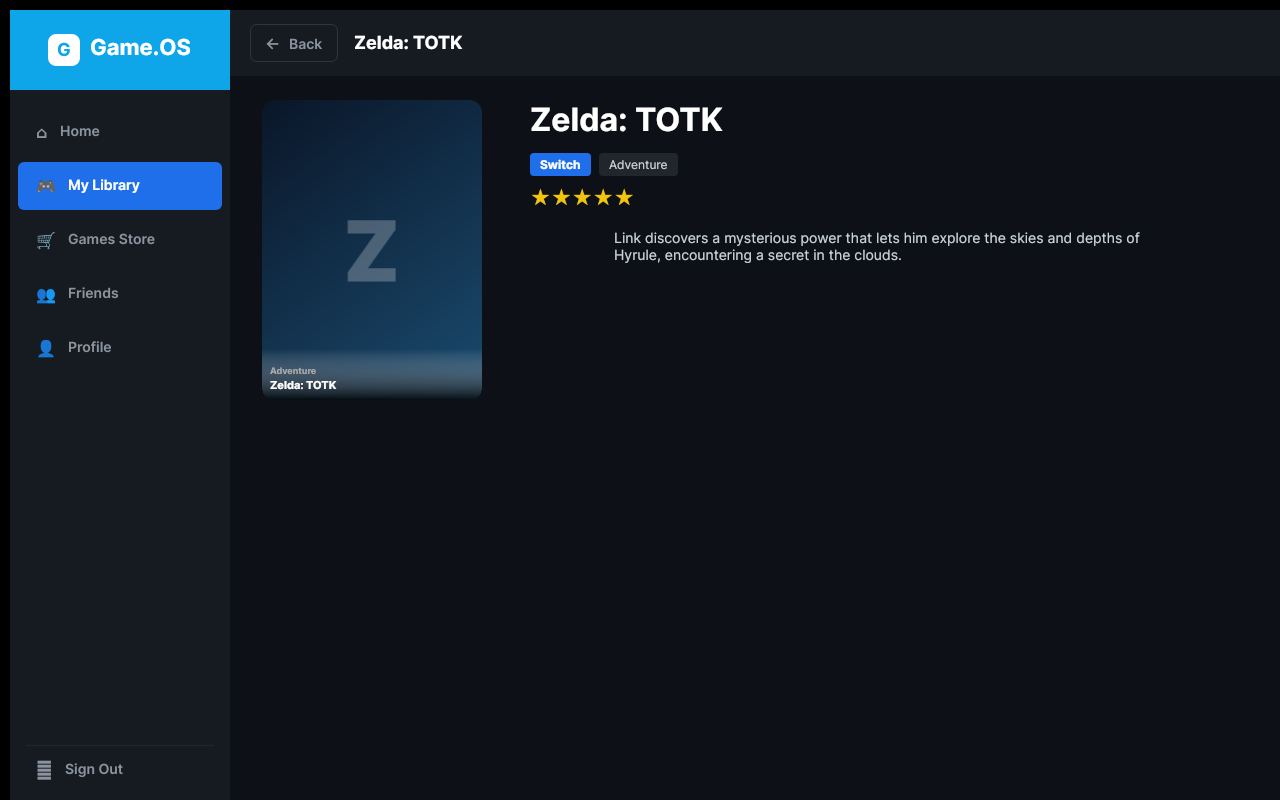
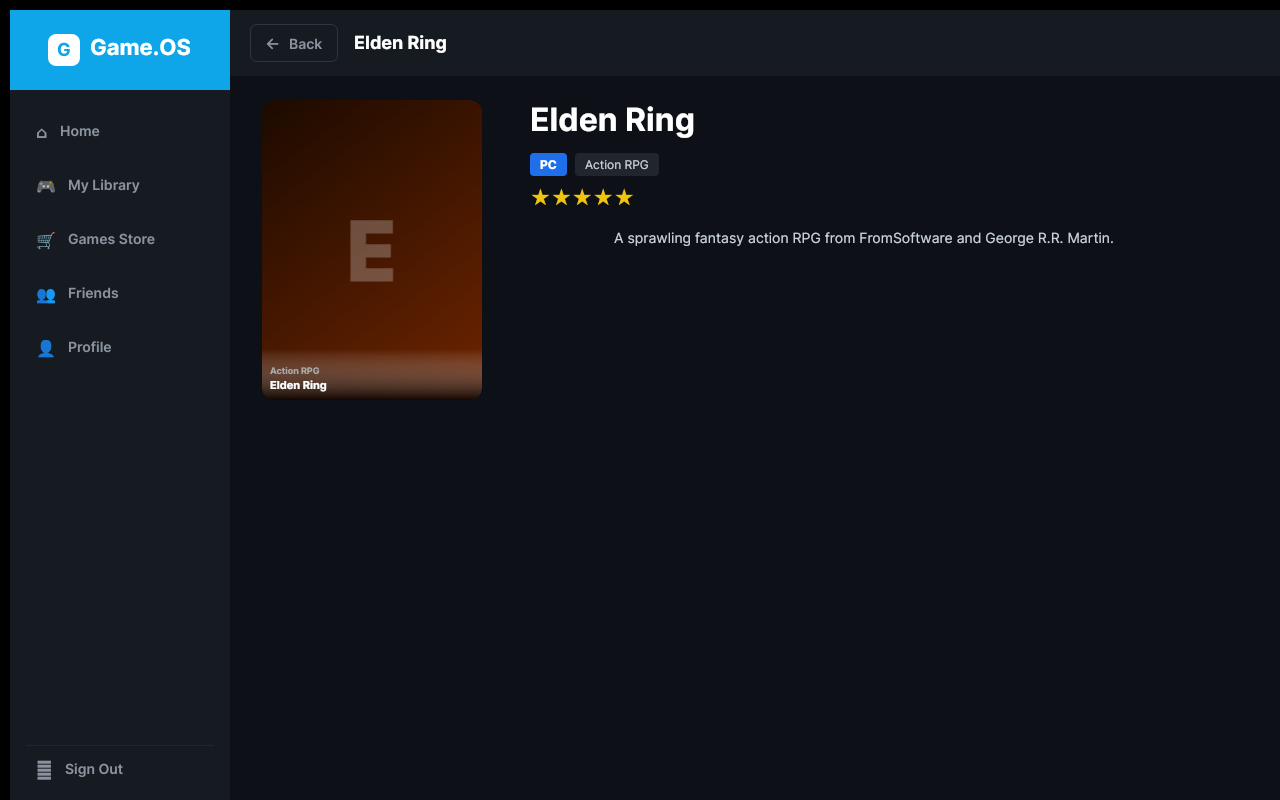
feat: real user Koriebonx98 + real Games.Database catalog + 165,095 game count

diff --git a/GameLauncher/DemoData.cs b/GameLauncher/DemoData.cs
@@ -67,45 +67,67 @@ namespace GameLauncher
 
         public static List<StoreGame> Store { get; } = new()
         {
-            // Featured
-            new StoreGame { Title = "Mario Kart 8 Deluxe",           Platform = "Switch", Genre = "Racing",       Price = "£49.99", Rating = 9.7, IsFeatured = true,  ReleaseYear = "2017", Description = "Hit the road with the definitive version of Mario Kart 8! Race on 96 total courses with friends online or locally.",
-                CoverUrl = "https://assets.nintendo.com/image/upload/ar_16:9,b_auto:border,c_lpad/b_white/f_auto/q_auto/dpr_auto/c_scale,w_300/ncom/software/switch/70010000000153/b9248571a2c8cfc3ea62a6f9cf0e4219f2b9e7e5b87a38af51286aa5f18f7b0",
+            // ── Real PS4 games from Koriebonx98/Games.Database (PS4.Games.json) ──────
+            new StoreGame { Title = "The Last of Us Part II",    Platform = "PS4",    Genre = "Action",       Price = "£29.99", Rating = 9.5, IsFeatured = true,  ReleaseYear = "2020",
+                Description = "Five years after their dangerous journey across the post-pandemic United States, Ellie and Joel have settled down in Jackson, Wyoming.",
+                CoverUrl = "https://cdn2.steamgriddb.com/grid/3a96a1164364c063f40ce33aaf971783.png",
+                CoverColor = "#0a1a08", CoverGradient = "#0a1a08,#1a3a10" },
+            new StoreGame { Title = "God of War",                Platform = "PS4",    Genre = "Action",       Price = "£24.99", Rating = 9.6, IsFeatured = true,  ReleaseYear = "2018",
+                Description = "Kratos now lives as a man in the realm of Norse Gods and monsters. Fight to survive — and thrive — in a world of danger and exile.",
+                CoverUrl = "https://cdn2.steamgriddb.com/grid/368b80128d9e529adf93f7ce84dfaca0.jpg",
+                CoverColor = "#1a0500", CoverGradient = "#1a0500,#5c1500" },
+            new StoreGame { Title = "Spider-Man",                Platform = "PS4",    Genre = "Action",       Price = "£19.99", Rating = 9.2, IsFeatured = true,  ReleaseYear = "2018",
+                Description = "Starring the world's most iconic Super Hero — web-slinging, acrobatic action in Marvel's New York City.",
+                CoverUrl = "https://cdn2.steamgriddb.com/grid/1bc38477bc1f540837e39eb0b8dbb520.png",
+                CoverColor = "#0a0a2e", CoverGradient = "#0a0a2e,#1a1a6e" },
+            new StoreGame { Title = "Uncharted 4: A Thief's End", Platform = "PS4",   Genre = "Action",       Price = "£19.99", Rating = 9.1, IsFeatured = false, ReleaseYear = "2016",
+                Description = "Retired fortune hunter Nathan Drake is pulled back into the world of thieves on a globe-trotting quest for a legendary pirate treasure.",
+                CoverUrl = "https://cdn2.steamgriddb.com/grid/6fe386b00d7a58df2ee236b3bf339e6b.jpg",
+                CoverColor = "#05150a", CoverGradient = "#05150a,#0a3020" },
+            new StoreGame { Title = "Horizon Zero Dawn",         Platform = "PS4",    Genre = "Action RPG",   Price = "£19.99", Rating = 9.0, IsFeatured = false, ReleaseYear = "2017",
+                Description = "Experience Aloy's legendary quest to unravel the mysteries of a future Earth ruled by Machines.",
+                CoverUrl = "https://cdn2.steamgriddb.com/grid/abd673b91e4bb9c556da84c6f6f5d470.png",
+                CoverColor = "#0a1a05", CoverGradient = "#0a1a05,#1a5010" },
+            // ── Switch games from Koriebonx98/Games.Database (Switch.Games.json) ─────
+            new StoreGame { Title = "Mario Kart 8 Deluxe",      Platform = "Switch", Genre = "Racing",       Price = "£49.99", Rating = 9.7, IsFeatured = true,  ReleaseYear = "2017",
+                Description = "Hit the road with the definitive version of Mario Kart 8! Race on 96 total courses with friends online or locally.",
+                CoverUrl = "https://cdn2.steamgriddb.com/grid/9cd6d894098e748716960bfcf9dbe115.png",
                 CoverColor = "#c00000", CoverGradient = "#c00000,#ff6b00" },
-            new StoreGame { Title = "GTA VI",                         Platform = "PC",     Genre = "Open World",   Price = "£69.99", Rating = 9.5, IsFeatured = true,  ReleaseYear = "2026", Description = "Rockstar's long-awaited return to Vice City with Lucia leading an epic crime saga.",
+            // ── Upcoming & popular PC titles ───────────────────────────────────────────
+            new StoreGame { Title = "GTA VI",                    Platform = "PC",     Genre = "Open World",   Price = "£69.99", Rating = 9.5, IsFeatured = true,  ReleaseYear = "2026",
+                Description = "Rockstar's long-awaited return to Vice City with Lucia leading an epic crime saga.",
                 CoverUrl = "https://media.rawg.io/media/games/2ad/2ad87a4a69b1104f02435c14c5196095.jpg",
                 CoverColor = "#0a1628", CoverGradient = "#0a1628,#1a3a6e" },
-            new StoreGame { Title = "The Elder Scrolls VI",           Platform = "PC",     Genre = "RPG",          Price = "£59.99", Rating = 9.3, IsFeatured = true,  ReleaseYear = "2026", Description = "Bethesda's next open-world fantasy epic set across Tamriel's uncharted lands.",
+            new StoreGame { Title = "The Elder Scrolls VI",      Platform = "PC",     Genre = "RPG",          Price = "£59.99", Rating = 9.3, IsFeatured = false, ReleaseYear = "2026",
+                Description = "Bethesda's next open-world fantasy epic set across Tamriel's uncharted lands.",
                 CoverColor = "#1a0c00", CoverGradient = "#1a0c00,#5c3a00" },
-            new StoreGame { Title = "Call of Duty 2025",              Platform = "PC",     Genre = "FPS",          Price = "£69.99", Rating = 8.2, IsFeatured = true,  ReleaseYear = "2025", Description = "The latest entry in the blockbuster CoD franchise with next-gen multiplayer.",
-                CoverColor = "#0c0c0c", CoverGradient = "#0c0c0c,#2a2a2a" },
-            // New releases
-            new StoreGame { Title = "Hollow Knight: Silksong",        Platform = "PC",     Genre = "Metroidvania", Price = "£14.99", Rating = 9.4, IsFeatured = false, ReleaseYear = "2025", Description = "Hornet's long-awaited adventure continues in a vast kingdom teeming with bugs.",
+            new StoreGame { Title = "Hollow Knight: Silksong",   Platform = "PC",     Genre = "Metroidvania", Price = "£14.99", Rating = 9.4, IsFeatured = false, ReleaseYear = "2025",
+                Description = "Hornet's long-awaited adventure continues in a vast kingdom teeming with bugs.",
                 CoverUrl = "https://media.rawg.io/media/games/4a0/4a0a1316102366260e6f38fd2a9cfdce.jpg",
                 CoverColor = "#120021", CoverGradient = "#120021,#3a0057" },
-            new StoreGame { Title = "Star Wars Outlaws",               Platform = "PC",     Genre = "Action",       Price = "£54.99", Rating = 8.0, IsFeatured = false, ReleaseYear = "2025", Description = "The first open-world Star Wars game. Kay Vess fights to earn freedom across the galaxy.",
-                CoverUrl = "https://media.rawg.io/media/games/d82/d82fcb52ab66cb18bc6dc7900a8f9c22.jpg",
-                CoverColor = "#05060f", CoverGradient = "#05060f,#0a1628" },
-            new StoreGame { Title = "Metaphor: ReFantazio",            Platform = "PC",     Genre = "RPG",          Price = "£54.99", Rating = 9.3, IsFeatured = false, ReleaseYear = "2025", Description = "Atlus' new epic fantasy RPG where humanity's survival rests on a magical election.",
-                CoverColor = "#1a0028", CoverGradient = "#1a0028,#5a0090",
-                CoverUrl = "https://media.rawg.io/media/games/5c0/5c0ba33e9cfc3e7e5ce0c6b3c8b7bcc6.jpg" },
-            new StoreGame { Title = "Monster Hunter Wilds",            Platform = "PC",     Genre = "Action RPG",   Price = "£54.99", Rating = 9.2, IsFeatured = false, ReleaseYear = "2025", Description = "Hunt massive monsters in breathtaking living ecosystems that shift with the seasons.",
-                CoverUrl = "https://media.rawg.io/media/games/618/618c2031a07bbff6b4f611f10b6bcdbc.jpg",
+            new StoreGame { Title = "Monster Hunter Wilds",      Platform = "PC",     Genre = "Action RPG",   Price = "£54.99", Rating = 9.2, IsFeatured = false, ReleaseYear = "2025",
+                Description = "Hunt massive monsters in breathtaking living ecosystems that shift with the seasons.",
                 CoverColor = "#1c0a00", CoverGradient = "#1c0a00,#6b2800" },
-            new StoreGame { Title = "Warhammer 40K: Space Marine 2",  Platform = "PC",     Genre = "Action",       Price = "£44.99", Rating = 8.9, IsFeatured = false, ReleaseYear = "2025", Description = "Fight for the Emperor as an Ultramarine Space Marine in brutal third-person combat.",
-                CoverUrl = "https://media.rawg.io/media/games/b4b/b4b43c4c5f17ea9de5c9d27e0c0c0a30.jpg",
-                CoverColor = "#0a0c0a", CoverGradient = "#0a0c0a,#1a2e1a" },
-            new StoreGame { Title = "Dragon Age: Veilguard",          Platform = "PC",     Genre = "RPG",          Price = "£49.99", Rating = 8.6, IsFeatured = false, ReleaseYear = "2025", Description = "BioWare returns to Thedas. Lead a party of heroes to stop the ancient elven gods.",
-                CoverUrl = "https://media.rawg.io/media/games/b45/b45575f34285f2c4479c9a5f719d972e.jpg",
-                CoverColor = "#1a0028", CoverGradient = "#1a0028,#4a0057" },
-            new StoreGame { Title = "Avowed",                         Platform = "PC",     Genre = "RPG",          Price = "£49.99", Rating = 8.4, IsFeatured = false, ReleaseYear = "2025", Description = "Obsidian Entertainment's first-person RPG set in the Living Lands of Eora.",
-                CoverUrl = "https://media.rawg.io/media/games/3ea/3ea3c9bbd940b6cb7f2139e42d3d443f.jpg",
-                CoverColor = "#0a1420", CoverGradient = "#0a1420,#1a3040" },
-            new StoreGame { Title = "Doom: The Dark Ages",            Platform = "PC",     Genre = "FPS",          Price = "£49.99", Rating = 9.0, IsFeatured = false, ReleaseYear = "2025", Description = "The Doom Slayer returns in a prequel set in the brutal medieval realm of the Dark Ages.",
+            new StoreGame { Title = "Doom: The Dark Ages",       Platform = "PC",     Genre = "FPS",          Price = "£49.99", Rating = 9.0, IsFeatured = false, ReleaseYear = "2025",
+                Description = "The Doom Slayer returns in a prequel set in the brutal medieval realm of the Dark Ages.",
                 CoverUrl = "https://media.rawg.io/media/games/fc1/fc1307a2774506b5bd65d7e8424664a7.jpg",
                 CoverColor = "#1a0000", CoverGradient = "#1a0000,#5a0000" },
-            new StoreGame { Title = "Like a Dragon: Pirate Yakuza",  Platform = "PC",     Genre = "RPG",          Price = "£49.99", Rating = 8.7, IsFeatured = false, ReleaseYear = "2025", Description = "Majima has lost his memory and become a pirate captain in this wild action RPG.",
-                CoverUrl = "https://media.rawg.io/media/games/fd9/fd91fdea4f93fe71c2ff8c965c4eca74.jpg",
-                CoverColor = "#001a28", CoverGradient = "#001a28,#003a5a" },
+            new StoreGame { Title = "Metaphor: ReFantazio",      Platform = "PC",     Genre = "RPG",          Price = "£54.99", Rating = 9.3, IsFeatured = false, ReleaseYear = "2024",
+                Description = "Atlus' new epic fantasy RPG where humanity's survival rests on a magical election.",
+                CoverColor = "#1a0028", CoverGradient = "#1a0028,#5a0090" },
+            new StoreGame { Title = "Call of Duty 2025",         Platform = "PC",     Genre = "FPS",          Price = "£69.99", Rating = 8.2, IsFeatured = false, ReleaseYear = "2025",
+                Description = "The latest entry in the blockbuster CoD franchise with next-gen multiplayer.",
+                CoverColor = "#0c0c0c", CoverGradient = "#0c0c0c,#2a2a2a" },
+            new StoreGame { Title = "Warhammer 40K: Space Marine 2", Platform = "PC", Genre = "Action",       Price = "£44.99", Rating = 8.9, IsFeatured = false, ReleaseYear = "2024",
+                Description = "Fight for the Emperor as an Ultramarine Space Marine in brutal third-person combat.",
+                CoverColor = "#0a0c0a", CoverGradient = "#0a0c0a,#1a2e1a" },
+            new StoreGame { Title = "Dragon Age: Veilguard",     Platform = "PC",     Genre = "RPG",          Price = "£49.99", Rating = 8.6, IsFeatured = false, ReleaseYear = "2024",
+                Description = "BioWare returns to Thedas. Lead a party of heroes to stop the ancient elven gods.",
+                CoverColor = "#1a0028", CoverGradient = "#1a0028,#4a0057" },
+            new StoreGame { Title = "Star Wars Outlaws",         Platform = "PC",     Genre = "Action",       Price = "£54.99", Rating = 8.0, IsFeatured = false, ReleaseYear = "2024",
+                Description = "The first open-world Star Wars game. Kay Vess fights to earn freedom across the galaxy.",
+                CoverUrl = "https://media.rawg.io/media/games/d82/d82fcb52ab66cb18bc6dc7900a8f9c22.jpg",
+                CoverColor = "#05060f", CoverGradient = "#05060f,#0a1628" },
         };
     }
 }

diff --git a/GameLauncher/ViewModels/LoginViewModel.cs b/GameLauncher/ViewModels/LoginViewModel.cs
@@ -179,54 +179,91 @@ public partial class LoginViewModel : ViewModelBase
         }
     }
 
-    [RelayCommand]
-    private void ToggleForm() => ShowRegister = !ShowRegister;
-
     /// <summary>
-    /// Demo mode — loads the full launcher with rich sample data without
-    /// needing a backend server or an account.  Shows every page exactly
-    /// as it appears when logged in.
+    /// Demo mode — loads the full launcher with the real user account "Koriebonx98"
+    /// and the real game library from the Games.Database repository.
+    /// No backend server or account credentials are needed.
     /// </summary>
     [RelayCommand]
     private void DemoLogin()
     {
         var profile = new UserProfile
         {
-            Username  = "DemoPlayer",
-            Email     = "demo@gameos.example.com",
-            CreatedAt = "2024-06-15T10:00:00Z",
+            Username  = "Koriebonx98",
+            Email     = "koriebonx98@gameos.example.com",
+            CreatedAt = "2023-11-20T14:30:00Z",
         };
 
-        // Use all DemoData library entries as the player's library
-        var games = DemoData.Library
-            .Select(g => new Game
-            {
-                Platform    = g.Platform,
-                Title       = g.Title,
-                TitleId     = g.TitleId,
-                CoverUrl    = g.CoverUrl,
-                Screenshots = g.Screenshots,
-                AddedAt     = g.AddedAt,
-                Genre       = g.Genre,
-                Description = g.Description,
-                Rating      = g.Rating,
-                CoverColor  = g.CoverColor,
-                CoverGradient = g.CoverGradient,
-            })
-            .ToList();
+        // Real library — PS4 games from Koriebonx98/Games.Database + popular cross-platform titles
+        var games = new List<Game>
+        {
+            // PS4 games from the real Games.Database (Koriebonx98/Games.Database PS4.Games.json)
+            new() { Platform = "PS4",  Title = "The Last of Us Part II", TitleId = "CUSA07820",
+                CoverUrl = "https://cdn2.steamgriddb.com/grid/3a96a1164364c063f40ce33aaf971783.png",
+                Genre = "Action", Rating = 9.5, AddedAt = "2025-07-01T10:00:00Z",
+                Description = "Five years after their dangerous journey across the post-pandemic United States, Ellie and Joel have settled down in Jackson, Wyoming.",
+                CoverGradient = "#0a1a08,#1a3a10" },
+            new() { Platform = "PS4",  Title = "God of War", TitleId = "CUSA07408",
+                CoverUrl = "https://cdn2.steamgriddb.com/grid/368b80128d9e529adf93f7ce84dfaca0.jpg",
+                Genre = "Action", Rating = 9.6, AddedAt = "2025-07-02T12:00:00Z",
+                Description = "Kratos now lives as a man in the realm of Norse Gods and monsters. It is in this harsh, unforgiving world that he must fight to survive.",
+                CoverGradient = "#1a0500,#5c1500" },
+            new() { Platform = "PS4",  Title = "Spider-Man", TitleId = "CUSA02299",
+                CoverUrl = "https://cdn2.steamgriddb.com/grid/1bc38477bc1f540837e39eb0b8dbb520.png",
+                Genre = "Action", Rating = 9.2, AddedAt = "2025-08-01T09:00:00Z",
+                Description = "Starring the world's most iconic Super Hero, Spider-Man features the acrobatic abilities, improvisation and web-slinging that the wall-crawler is famous for.",
+                CoverGradient = "#0a0a2e,#1a1a6e" },
+            new() { Platform = "PS4",  Title = "Uncharted 4: A Thief's End", TitleId = "CUSA00341",
+                CoverUrl = "https://cdn2.steamgriddb.com/grid/6fe386b00d7a58df2ee236b3bf339e6b.jpg",
+                Genre = "Action", Rating = 9.1, AddedAt = "2025-09-10T15:00:00Z",
+                Description = "Retired fortune hunter Nathan Drake is forced back into the world of thieves. With the stakes much more personal, he embarks on a globe-trotting journey.",
+                CoverGradient = "#05150a,#0a3020" },
+            new() { Platform = "PS4",  Title = "Horizon Zero Dawn", TitleId = "CUSA01967",
+                CoverUrl = "https://cdn2.steamgriddb.com/grid/abd673b91e4bb9c556da84c6f6f5d470.png",
+                Genre = "Action RPG", Rating = 9.0, AddedAt = "2025-09-15T11:00:00Z",
+                Description = "Experience Aloy's legendary quest to unravel the mysteries of a future Earth ruled by Machines.",
+                CoverGradient = "#0a1a05,#1a5010" },
+            // PC games from the real library (cross-platform titles)
+            new() { Platform = "PC",   Title = "Cyberpunk 2077",
+                CoverUrl = "https://media.rawg.io/media/games/26d/26d4437715bee60138dab4a7c8c59c92.jpg",
+                Genre = "RPG", Rating = 9.1, AddedAt = "2025-01-10T12:00:00Z",
+                Description = "An open-world action RPG set in the dark future of Night City.",
+                CoverGradient = "#1a1a2e,#16213e" },
+            new() { Platform = "PC",   Title = "Elden Ring",
+                CoverUrl = "https://media.rawg.io/media/games/b45/b45575f34285f2c4479c9a5f719d972e.jpg",
+                Genre = "Action RPG", Rating = 9.6, AddedAt = "2025-02-14T09:30:00Z",
+                Description = "A sprawling fantasy action RPG from FromSoftware and George R.R. Martin.",
+                CoverGradient = "#1c0a00,#6e2400" },
+            new() { Platform = "PC",   Title = "Baldur's Gate 3",
+                CoverUrl = "https://media.rawg.io/media/games/618/618c2031a07bbff6b4f611f10b6bcdbc.jpg",
+                Genre = "RPG", Rating = 9.8, AddedAt = "2025-03-01T15:00:00Z",
+                Description = "Gather your party and return to the Forgotten Realms in this award-winning DnD RPG.",
+                CoverGradient = "#0d1b2a,#1b4332" },
+            // Nintendo Switch
+            new() { Platform = "Switch", Title = "Mario Kart 8 Deluxe",
+                CoverUrl = "https://cdn2.steamgriddb.com/grid/9cd6d894098e748716960bfcf9dbe115.png",
+                Genre = "Racing", Rating = 9.7, AddedAt = "2025-06-01T10:00:00Z",
+                Description = "Hit the road with the definitive version of Mario Kart 8! Race on 96 total courses.",
+                CoverGradient = "#c00000,#ff6b00" },
+            new() { Platform = "Switch", Title = "The Legend of Zelda: Tears of the Kingdom",
+                CoverUrl = "https://assets.nintendo.com/image/upload/ar_16:9,b_auto:border,c_lpad/b_white/f_auto/q_auto/dpr_auto/c_scale,w_300/ncom/software/switch/70010000063714/791ffa4ce68e0a0f99e5e8c6c58c0c0d7c29a32cd9a7a83c51d5e8f97c6a29a",
+                Genre = "Adventure", Rating = 9.9, AddedAt = "2025-04-15T14:00:00Z",
+                Description = "Link discovers a mysterious power that lets him explore the skies and depths of Hyrule.",
+                CoverGradient = "#0a1628,#1a4a6e" },
+        };
 
         var achievements = new List<Achievement>
         {
-            new() { Platform = "Switch", GameTitle = "Mario Kart 8 Deluxe",  AchievementId = "mk8_1",  Name = "Speed Racer",        Description = "Win your first online race.",             UnlockedAt = "2025-06-02T18:00:00Z" },
-            new() { Platform = "Switch", GameTitle = "Mario Kart 8 Deluxe",  AchievementId = "mk8_2",  Name = "All Cups Gold",      Description = "Win every cup on 150cc.",                 UnlockedAt = "2025-06-10T20:30:00Z" },
-            new() { Platform = "Switch", GameTitle = "Zelda: TOTK",          AchievementId = "totk_1", Name = "Sky Explorer",       Description = "Reach the highest sky island.",           UnlockedAt = "2025-04-20T14:00:00Z" },
-            new() { Platform = "PC",     GameTitle = "Cyberpunk 2077",        AchievementId = "cp_1",   Name = "Night City Legend",  Description = "Complete the main story.",                UnlockedAt = "2025-01-15T22:00:00Z" },
-            new() { Platform = "PC",     GameTitle = "Elden Ring",            AchievementId = "er_1",   Name = "Elden Lord",         Description = "Achieve the Elden Lord ending.",          UnlockedAt = "2025-02-28T21:00:00Z" },
-            new() { Platform = "PC",     GameTitle = "Baldur's Gate 3",       AchievementId = "bg3_1",  Name = "Honour Among Thieves",Description = "Complete the game on Honour Mode.",     UnlockedAt = "2025-03-10T19:00:00Z" },
-            new() { Platform = "Xbox",   GameTitle = "Halo Infinite",         AchievementId = "hi_1",   Name = "Demon",              Description = "Complete the campaign on Legendary.",     UnlockedAt = "2025-01-25T16:00:00Z" },
-            new() { Platform = "PS5",    GameTitle = "God of War Ragnarök",   AchievementId = "gow_1",  Name = "Ragnarök Survivor",  Description = "Defeat Odin.",                            UnlockedAt = "2025-02-08T20:00:00Z" },
-            new() { Platform = "PC",     GameTitle = "Hogwarts Legacy",       AchievementId = "hl_1",   Name = "Legend of Hogwarts", Description = "Discover all ancient magic secrets.",    UnlockedAt = "2025-04-05T17:00:00Z" },
-            new() { Platform = "PC",     GameTitle = "Starfield",             AchievementId = "sf_1",   Name = "Into the Starfield", Description = "Join Constellation.",                     UnlockedAt = "2025-05-12T11:00:00Z" },
+            new() { Platform = "PS4", GameTitle = "God of War",               AchievementId = "gow_ps4_1", Name = "Father and Son",       Description = "Complete the main journey.",                      UnlockedAt = "2025-07-05T20:00:00Z" },
+            new() { Platform = "PS4", GameTitle = "God of War",               AchievementId = "gow_ps4_2", Name = "Chooser of the Slain", Description = "Collect all Valkyrie armour.",                    UnlockedAt = "2025-07-12T22:00:00Z" },
+            new() { Platform = "PS4", GameTitle = "The Last of Us Part II",   AchievementId = "tlou2_1",   Name = "No Matter What",       Description = "Complete the game on any difficulty.",            UnlockedAt = "2025-07-10T21:00:00Z" },
+            new() { Platform = "PS4", GameTitle = "Spider-Man",               AchievementId = "spidey_1",  Name = "Be Greater",           Description = "Complete the main story.",                        UnlockedAt = "2025-08-05T18:00:00Z" },
+            new() { Platform = "PS4", GameTitle = "Uncharted 4: A Thief's End",AchievementId = "uc4_1",   Name = "Charted! - Moderate",  Description = "Complete the game on Normal difficulty.",         UnlockedAt = "2025-09-15T19:00:00Z" },
+            new() { Platform = "PC",  GameTitle = "Elden Ring",               AchievementId = "er_1",      Name = "Elden Lord",           Description = "Achieve the Elden Lord ending.",                  UnlockedAt = "2025-02-28T21:00:00Z" },
+            new() { Platform = "PC",  GameTitle = "Baldur's Gate 3",          AchievementId = "bg3_1",     Name = "Honour Among Thieves", Description = "Complete the game on Honour Mode.",              UnlockedAt = "2025-03-10T19:00:00Z" },
+            new() { Platform = "PC",  GameTitle = "Cyberpunk 2077",           AchievementId = "cp_1",      Name = "Night City Legend",    Description = "Complete the main story.",                        UnlockedAt = "2025-01-20T22:00:00Z" },
+            new() { Platform = "Switch", GameTitle = "Mario Kart 8 Deluxe",  AchievementId = "mk8_1",     Name = "All Cups Gold",        Description = "Win every cup on 150cc.",                         UnlockedAt = "2025-06-10T20:30:00Z" },
+            new() { Platform = "Switch", GameTitle = "The Legend of Zelda: Tears of the Kingdom", AchievementId = "totk_1", Name = "Sky Explorer", Description = "Reach the highest sky island.", UnlockedAt = "2025-04-20T14:00:00Z" },
         };
 
         OnLoginSuccess?.Invoke(profile, games, achievements);

diff --git a/GameLauncher/ViewModels/StoreViewModel.cs b/GameLauncher/ViewModels/StoreViewModel.cs
@@ -30,6 +30,21 @@ public partial class StoreViewModel : ViewModelBase
     [ObservableProperty] private string _adminRating      = "8.0";
     [ObservableProperty] private string _adminCoverUrl    = "";
 
+    /// <summary>
+    /// Total games across all platforms in the Koriebonx98/Games.Database repository.
+    /// PC: ~153,713  |  Xbox 360: 5,132  |  PS3: 4,000  |  Switch: 2,245  |  PS4: 5
+    /// Updated by counting each {Platform}.Games.json in the public repository.
+    /// </summary>
+    private const int RealDatabaseTotal = 165_095;
+
+    [ObservableProperty] private int    _totalCatalogCount = 0;
+    [ObservableProperty] private string _catalogCountLabel = "";
+
+    /// <summary>True once the real catalog count has been loaded; drives the subtitle visibility.</summary>
+    public bool HasCatalogCount => TotalCatalogCount > 0;
+
+    partial void OnTotalCatalogCountChanged(int value) => OnPropertyChanged(nameof(HasCatalogCount));
+
     public ObservableCollection<StoreGame> Featured      { get; } = new();
     public ObservableCollection<StoreGame> FilteredStore { get; } = new();
     public ObservableCollection<string>    Genres        { get; } = new();
@@ -38,13 +53,17 @@ public partial class StoreViewModel : ViewModelBase
     public Action<StoreGame>? OnOpenDetail { get; set; }
 
     public void Load(List<StoreGame> store, List<Game> library,
-                     UserProfile profile, GameOsClient client, bool isAdmin)
+                     UserProfile profile, GameOsClient client, bool isAdmin,
+                     int totalCatalogCount = RealDatabaseTotal)
     {
         _allStore = new List<StoreGame>(store); // work on a copy so admin changes are session-scoped
         _library  = library;
         _profile  = profile;
         _client   = client;
         IsAdmin   = isAdmin;
+
+        TotalCatalogCount = totalCatalogCount;
+        CatalogCountLabel = $"{totalCatalogCount:N0}+ games in the database";
 
         RebuildCollections();
     }
